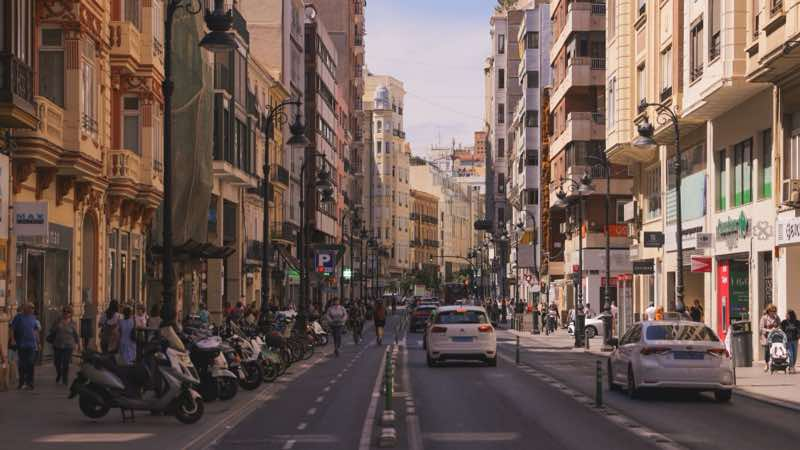
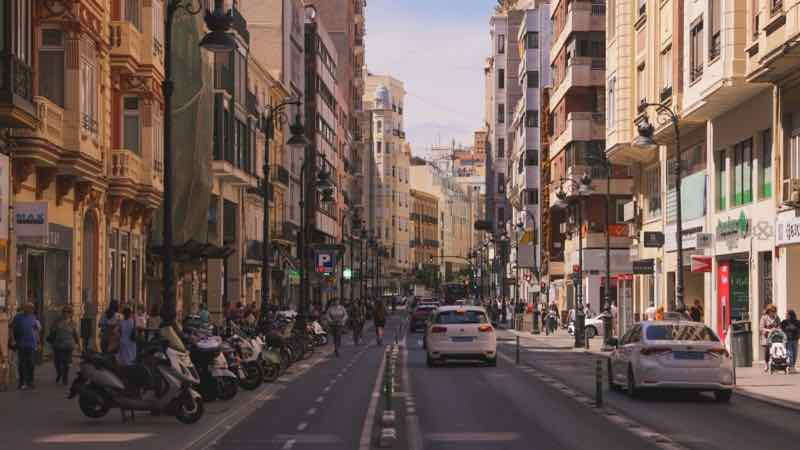
Six more drawings

diff --git a/nl/over-ons/index.html b/nl/over-ons/index.html
@@ -8,7 +8,7 @@
 <meta name="robots" content="noindex, nofollow">
 
 <link rel="preload" href="/assets/fonts/montserrat-latin-wght-normal.woff2" as="font" type="font/woff2" crossorigin>
-<link rel="stylesheet" href="/assets/styles.css?v=19522ea4">
+<link rel="stylesheet" href="/assets/styles.css?v=6e85b61c">
 <link rel="preload" as="image" href="/assets/img/small/pexels-n-voitkevich-7826593.jpg" imagesrcset="/assets/img/small/pexels-n-voitkevich-7826593.jpg 800w, /assets/img/pexels-n-voitkevich-7826593.jpg 2400w" imagesizes="100vw" fetchpriority="high">
 <link rel="icon" href="/assets/img/favicon.png" type="image/png">
 <script>
@@ -44,6 +44,18 @@
 <section class="section"><div class="wrap">
   <h2>Hoe wij werken</h2>
   
+  <figure class="drawing money-path"><svg viewBox="0 0 320 170" role="img" aria-label="Een pijl van u naar de verkoper, met de woorden uw geld. Kaireon staat erboven, zonder verbinding met de pijl.">
+      <rect class="box ours" x="120" y="8" width="80" height="36" rx="6"/>
+      <text x="160" y="31" text-anchor="middle" class="strong">Kaireon</text>
+      <line class="to" x1="160" y1="44" x2="160" y2="96"/><line class="cross" x1="150" y1="62" x2="170" y2="78"/><line class="cross" x1="170" y1="62" x2="150" y2="78"/>
+      <rect class="box" x="6" y="104" width="80" height="40" rx="6"/>
+      <text x="46" y="129" text-anchor="middle">u</text>
+      <rect class="box" x="214" y="104" width="100" height="40" rx="6"/>
+      <text x="264" y="129" text-anchor="middle">de verkoper</text>
+      <line class="arrow" x1="88" y1="124" x2="204" y2="124"/><polygon class="head" points="212,124 200,117 200,131"/>
+      
+      <text x="146" y="160" text-anchor="middle">uw geld</text>
+    </svg><figcaption>Uw geld gaat nooit via Kaireon. Wij ontvangen of beheren nooit geld voor de aankoop.</figcaption></figure>
 <div class="rows">
   <div><h3>U beslist</h3><p>U beslist zelf over elke stap. Wij adviseren, en doen niets namens u zonder uw schriftelijke opdracht.</p></div>
   <div><h3>Uw geld</h3><p>Wij ontvangen of beheren nooit geld voor de aankoop. Betaal nooit op basis van alleen een bericht per WhatsApp of e-mail.</p></div>
@@ -54,6 +66,25 @@
 <section class="section"><div class="wrap">
   <h2>Waar wij werken</h2>
   <p class="lede">Weet u nog niet welke streek bij u past? Daarvoor is de verkenningsreis bedoeld.</p>
+  <figure class="drawing map"><svg viewBox="0 0 350 560" role="img" aria-label="Een kaart van de kust. Bovenaan Valencia, met ons kantoor. Daaronder de Costa Blanca Noord met Dénia, Jávea, Moraira, Calpe en Altea, en de Costa Blanca Zuid met Alicante, Santa Pola, Guardamar del Segura, Torrevieja en Orihuela Costa.">
+      <polygon class="sea" points="198,-1 198,44 218,134 234,194 286,233 302,248 294,278 276,293 256,305 240,323 220,332 186,356 170,380 154,428 136,458 130,491 118,506 108,527 350,560 350,0"/>
+      <polyline class="coast" points="198,-1 198,44 218,134 234,194 286,233 302,248 294,278 276,293 256,305 240,323 220,332 186,356 170,380 154,428 136,458 130,491 118,506 108,527"/>
+      <circle class="town" cx="188" cy="44" r="4"/><text x="179" y="49" text-anchor="end">Valencia</text>
+      <circle class="town" cx="284" cy="233" r="4"/><text x="275" y="238" text-anchor="end">Dénia</text>
+      <circle class="town" cx="298" cy="248" r="4"/><text x="307" y="253" text-anchor="start">Jávea</text>
+      <circle class="town" cx="290" cy="278" r="4"/><text x="281" y="283" text-anchor="end">Moraira</text>
+      <circle class="town" cx="272" cy="293" r="4"/><text x="263" y="298" text-anchor="end">Calpe</text>
+      <circle class="town" cx="254" cy="305" r="4"/><text x="263" y="320" text-anchor="start">Altea</text>
+      <circle class="town" cx="168" cy="380" r="4"/><text x="159" y="385" text-anchor="end">Alicante</text>
+      <circle class="town" cx="152" cy="428" r="4"/><text x="143" y="433" text-anchor="end">Santa Pola</text>
+      <circle class="town" cx="134" cy="458" r="4"/><text x="143" y="463" text-anchor="start">Guardamar del Segura</text>
+      <circle class="town" cx="128" cy="491" r="4"/><text x="137" y="496" text-anchor="start">Torrevieja</text>
+      <circle class="town" cx="116" cy="506" r="4"/><text x="107" y="511" text-anchor="end">Orihuela Costa</text>
+      <circle class="office" cx="188" cy="44" r="8"/><text x="179" y="68" text-anchor="end" class="soft">kantoor</text>
+      <text x="336" y="130" text-anchor="middle" class="region" transform="rotate(90 336 130)">Costa Blanca Noord</text>
+      <text x="240" y="530" text-anchor="middle" class="region">Costa Blanca Zuid</text>
+      <text x="268" y="40" text-anchor="middle" class="soft">Middellandse Zee</text>
+    </svg><figcaption>Van Valencia tot Orihuela Costa. Ons kantoor staat in Valencia.</figcaption></figure>
 <div class="cols">
   <div><h3>Valencia</h3><p>De stad Valencia en haar wijken. Hier staat ons kantoor.</p></div>
   <div><h3>Costa Blanca Noord</h3><p>Onder meer Dénia, Jávea, Moraira, Calpe en Altea.</p></div>

diff --git a/nl/kopen/index.html b/nl/kopen/index.html
@@ -8,7 +8,7 @@
 <meta name="robots" content="noindex, nofollow">
 
 <link rel="preload" href="/assets/fonts/montserrat-latin-wght-normal.woff2" as="font" type="font/woff2" crossorigin>
-<link rel="stylesheet" href="/assets/styles.css?v=19522ea4">
+<link rel="stylesheet" href="/assets/styles.css?v=6e85b61c">
 <link rel="preload" as="image" href="/assets/img/small/pexels-tbd-traveller-2149583744-30811310.jpg" imagesrcset="/assets/img/small/pexels-tbd-traveller-2149583744-30811310.jpg 800w, /assets/img/pexels-tbd-traveller-2149583744-30811310.jpg 2000w" imagesizes="100vw" fetchpriority="high">
 <link rel="icon" href="/assets/img/favicon.png" type="image/png">
 <script>
@@ -67,6 +67,14 @@
 <section class="section"><div class="wrap">
   <h2>Wat wij controleren</h2>
   <p class="lede">Vóór u tekent, worden de woning en de contracten juridisch gecontroleerd. Een onafhankelijke Spaanse advocaat doet die controle. U mag ook uw eigen advocaat kiezen.</p>
+  <figure class="drawing gate"><svg viewBox="0 0 320 230" role="img" aria-label="Drie stappen onder elkaar: bod en reservering, dan de juridische controle, en pas daarna tekent u het arrascontract.">
+      <rect class="box" x="40" y="10" width="240" height="44" rx="6"/>
+      <text x="160" y="37" text-anchor="middle">bod en reservering</text><line class="arrow" x1="160" y1="54" x2="160" y2="80"/><polygon class="head" points="160,88 153,76 167,76"/>
+      <rect class="box ours" x="40" y="90" width="240" height="44" rx="6"/>
+      <text x="160" y="117" text-anchor="middle" class="strong">juridische controle</text><line class="arrow" x1="160" y1="134" x2="160" y2="160"/><polygon class="head" points="160,168 153,156 167,156"/>
+      <rect class="box" x="40" y="170" width="240" height="44" rx="6"/>
+      <text x="160" y="197" text-anchor="middle">u tekent de arras</text>
+    </svg><figcaption>Pas na de juridische controle van de woning en de contracten tekent u het arrascontract.</figcaption></figure>
 <div class="rows">
   <div><h3>Eigendom</h3><p>Staat de woning in het Registro de la Propiedad op naam van de verkoper? Klopt de omschrijving in het register en het kadaster met wat u koopt?</p></div>
   <div><h3>Schulden en lasten</h3><p>Rust er een hypotheek, een beslag of een andere last op de woning? Zijn de gemeentebelasting en de bijdrage aan de vereniging van eigenaren betaald? Open schulden kunnen bij de woning blijven.</p></div>
@@ -101,6 +109,23 @@
 <section class="section"><div class="wrap">
   <h2>Kosten bovenop de koopprijs</h2>
   <p class="lede">In de eerste fase krijgt u een volledige kostenraming. De bedragen hangen af van de woning en van de tarieven van dat moment. Dit overzicht is geen fiscaal advies.</p>
+  <figure class="drawing costs"><svg viewBox="0 0 320 262" role="img" aria-label="Twee stapels. Een bestaande woning: de koopprijs, daarop overdrachtsbelasting (ITP) en vaste kosten. Nieuwbouw: de koopprijs, daarop btw en zegelrecht (IVA en AJD) en vaste kosten.">
+      <rect class="box" x="25" y="20" width="120" height="120"/>
+      <text x="85" y="85" text-anchor="middle">koopprijs</text>
+      <rect class="bank" x="25" y="140" width="120" height="44"/>
+      <text x="85" y="167" text-anchor="middle" class="strong">ITP</text>
+      <rect class="own" x="25" y="184" width="120" height="40"/>
+      <text x="85" y="209" text-anchor="middle">vaste kosten</text>
+      <rect class="box" x="175" y="20" width="120" height="120"/>
+      <text x="235" y="85" text-anchor="middle">koopprijs</text>
+      <rect class="bank" x="175" y="140" width="120" height="44"/>
+      <text x="235" y="167" text-anchor="middle" class="strong">IVA en AJD</text>
+      <rect class="own" x="175" y="184" width="120" height="40"/>
+      <text x="235" y="209" text-anchor="middle">vaste kosten</text>
+      
+      <text x="85" y="252" text-anchor="middle" class="strong">bestaande woning</text>
+      <text x="235" y="252" text-anchor="middle" class="strong">nieuwbouw</text>
+    </svg><figcaption>Bovenop de koopprijs komen belastingen en vaste kosten (notaris, register, gestor). Schematisch, niet op schaal.</figcaption></figure>
 <div class="rows">
   <div><h3>Bestaande woning</h3><p>U betaalt overdrachtsbelasting (ITP).</p></div>
   <div><h3>Nieuwbouw</h3><p>U betaalt btw (IVA) en zegelrecht (AJD) in plaats van overdrachtsbelasting.</p></div>

diff --git a/nl/ontwikkelen/index.html b/nl/ontwikkelen/index.html
@@ -8,7 +8,7 @@
 <meta name="robots" content="noindex, nofollow">
 
 <link rel="preload" href="/assets/fonts/montserrat-latin-wght-normal.woff2" as="font" type="font/woff2" crossorigin>
-<link rel="stylesheet" href="/assets/styles.css?v=19522ea4">
+<link rel="stylesheet" href="/assets/styles.css?v=6e85b61c">
 <link rel="preload" as="image" href="/assets/img/small/pexels-delot-38306059.jpg" imagesrcset="/assets/img/small/pexels-delot-38306059.jpg 800w, /assets/img/pexels-delot-38306059.jpg 2400w" imagesizes="100vw" fetchpriority="high">
 <link rel="icon" href="/assets/img/favicon.png" type="image/png">
 <script>
@@ -50,6 +50,17 @@
 <section class="section"><div class="wrap">
   <h2>Wat is een cambio de uso?</h2>
   
+  <figure class="drawing change"><svg viewBox="0 0 360 200" role="img" aria-label="Links een bedrijfsruimte met een rolluik. Een pijl met het woord vergunning. Rechts dezelfde gevel als woning, met ramen en een deur.">
+      <rect class="box" x="10" y="20" width="110" height="130"/><rect class="off" x="20" y="60" width="90" height="90"/>
+      <line class="link" x1="20" y1="72" x2="110" y2="72"/><line class="link" x1="20" y1="84" x2="110" y2="84"/><line class="link" x1="20" y1="96" x2="110" y2="96"/><line class="link" x1="20" y1="108" x2="110" y2="108"/><line class="link" x1="20" y1="120" x2="110" y2="120"/><line class="link" x1="20" y1="132" x2="110" y2="132"/>
+      <line class="arrow" x1="136" y1="95" x2="216" y2="95"/><polygon class="head" points="226,95 214,88 214,102"/>
+      <text x="180" y="80" text-anchor="middle">vergunning</text>
+      <rect class="box ours" x="240" y="20" width="110" height="130"/><rect class="unit" x="252" y="40" width="36" height="40"/><rect class="unit" x="302" y="40" width="36" height="40"/>
+      <rect class="unit" x="252" y="96" width="36" height="40"/><rect class="door" x="306" y="96" width="28" height="54"/>
+      
+      <text x="65" y="178" text-anchor="middle">bedrijfsruimte</text>
+      <text x="295" y="178" text-anchor="middle" class="strong">woning</text>
+    </svg><figcaption>Een cambio de uso maakt van een bedrijfsruimte een woning. De gemeente moet er een vergunning voor geven.</figcaption></figure>
 <div class="rows">
   <div><h3>Een andere bestemming</h3><p>Een cambio de uso wijzigt de bestemming van een pand. Een bedrijfsruimte op de begane grond wordt bijvoorbeeld een woning.</p></div>
   <div><h3>Wat daarvoor nodig is</h3><p>De gemeente moet een vergunning geven voor de wijziging. De ruimte moet voldoen aan de eisen voor een woning, zoals daglicht, ventilatie en hoogte. Een architect maakt het project.</p></div>

diff --git a/nl/beheer/index.html b/nl/beheer/index.html
@@ -8,7 +8,7 @@
 <meta name="robots" content="noindex, nofollow">
 
 <link rel="preload" href="/assets/fonts/montserrat-latin-wght-normal.woff2" as="font" type="font/woff2" crossorigin>
-<link rel="stylesheet" href="/assets/styles.css?v=19522ea4">
+<link rel="stylesheet" href="/assets/styles.css?v=6e85b61c">
 <link rel="preload" as="image" href="/assets/img/small/pexels-joaquin-carfagna-3131171-17628111.jpg" imagesrcset="/assets/img/small/pexels-joaquin-carfagna-3131171-17628111.jpg 800w, /assets/img/pexels-joaquin-carfagna-3131171-17628111.jpg 2400w" imagesizes="100vw" fetchpriority="high">
 <link rel="icon" href="/assets/img/favicon.png" type="image/png">
 <script>
@@ -51,6 +51,17 @@
 <section class="section"><div class="wrap">
   <h2>Wat beheer inhoudt</h2>
   <p class="lede">U woont niet om de hoek. Wij doen ter plaatse wat nodig is.</p>
+  <figure class="drawing cycle"><svg viewBox="0 0 320 300" role="img" aria-label="Een kring van vijf stappen rond uw appartement: boeking, eigen code voor de gast, verblijf, vertrek en schoonmaak, en dan de volgende boeking.">
+      <circle class="ring" cx="160" cy="150" r="112"/>
+      <rect class="box ours" x="70" y="132" width="180" height="36" rx="18"/>
+      <text x="160" y="155" text-anchor="middle" class="strong">uw appartement</text>
+      <rect class="box" x="108" y="21" width="104" height="34" rx="17"/>
+      <text x="160" y="43" text-anchor="middle">boeking</text><rect class="box" x="215" y="98" width="104" height="34" rx="17"/>
+      <text x="267" y="120" text-anchor="middle">eigen code</text><rect class="box" x="174" y="224" width="104" height="34" rx="17"/>
+      <text x="226" y="246" text-anchor="middle">verblijf</text><rect class="box" x="42" y="224" width="104" height="34" rx="17"/>
+      <text x="94" y="246" text-anchor="middle">vertrek</text><rect class="box" x="1" y="98" width="104" height="34" rx="17"/>
+      <text x="53" y="120" text-anchor="middle">schoonmaak</text>
+    </svg><figcaption>Bij elke boeking: de gast krijgt een eigen code, wij beantwoorden de vragen, en na het vertrek volgt de schoonmaak.</figcaption></figure>
 <div class="rows">
   <div><h3>Sleutels en toegang</h3><p>Een slot met een code vervangt de sleutel. Elke gast krijgt een eigen code, die alleen tijdens het verblijf werkt. De schoonmaak en het onderhoud hebben een eigen code.</p></div>
   <div><h3>Advertentie, kalender en prijs</h3><p>Wij maken de advertentie, met foto's en een beschrijving van elke ruimte. De kalender en de prijzen beheren wij op één plek, voor alle kanalen samen.</p></div>

diff --git a/assets/styles.css b/assets/styles.css
@@ -202,6 +202,17 @@ main { padding-bottom: var(--space-64); }
 .drawing .unit { fill: var(--accent); fill-opacity: .35; stroke: var(--accent); stroke-width: 2; }
 .drawing .street { stroke: var(--text); stroke-width: 2; }
 .drawing .off { fill: var(--text); fill-opacity: .1; stroke: var(--line); stroke-width: 2; stroke-dasharray: 4 4; }
+.drawing .arrow { stroke: var(--accent); stroke-width: 3; }
+.drawing .head, .drawing .door { fill: var(--accent); }
+.drawing .cross { stroke: var(--text); stroke-width: 3; }
+.drawing .ring { fill: none; stroke: var(--accent); stroke-width: 2; stroke-dasharray: 6 6; }
+.drawing .sea { fill: var(--accent); fill-opacity: .15; }
+.drawing .coast { fill: none; stroke: var(--accent); stroke-width: 2; }
+.drawing .town { fill: var(--text); }
+.drawing .office { fill: var(--accent); stroke: var(--text); stroke-width: 2; }
+.drawing text.soft { fill: var(--muted); }
+.drawing text.region { fill: var(--accent); font-weight: 600; }
+.drawing.map svg { max-width: 380px; }
 /* Large figures: a short fact in the accent colour, with one line under it. */
 .figures { display: grid; gap: var(--space-32); grid-template-columns: repeat(auto-fit, minmax(min(100%, 220px), 1fr)); }
 .figures b { display: block; font-size: var(--text-40); font-weight: 500; line-height: 1.1; color: var(--accent); margin-bottom: var(--space-8); }

diff --git a/nl/index.html b/nl/index.html
@@ -8,7 +8,7 @@
 <meta name="robots" content="noindex, nofollow">
 
 <link rel="preload" href="/assets/fonts/montserrat-latin-wght-normal.woff2" as="font" type="font/woff2" crossorigin>
-<link rel="stylesheet" href="/assets/styles.css?v=19522ea4">
+<link rel="stylesheet" href="/assets/styles.css?v=6e85b61c">
 <link rel="preload" as="image" href="/assets/img/small/pexels-audrius-strikaitis-31613974-18771948.jpg" imagesrcset="/assets/img/small/pexels-audrius-strikaitis-31613974-18771948.jpg 800w, /assets/img/pexels-audrius-strikaitis-31613974-18771948.jpg 2000w" imagesizes="100vw" fetchpriority="high">
 <link rel="icon" href="/assets/img/favicon.png" type="image/png">
 <script>

diff --git a/nl/contact/index.html b/nl/contact/index.html
@@ -8,7 +8,7 @@
 <meta name="robots" content="noindex, nofollow">
 
 <link rel="preload" href="/assets/fonts/montserrat-latin-wght-normal.woff2" as="font" type="font/woff2" crossorigin>
-<link rel="stylesheet" href="/assets/styles.css?v=19522ea4">
+<link rel="stylesheet" href="/assets/styles.css?v=6e85b61c">
 <link rel="preload" as="image" href="/assets/img/small/pexels-joaquin-carfagna-3131171-17627454.jpg" imagesrcset="/assets/img/small/pexels-joaquin-carfagna-3131171-17627454.jpg 800w, /assets/img/pexels-joaquin-carfagna-3131171-17627454.jpg 2400w" imagesizes="100vw" fetchpriority="high">
 <link rel="icon" href="/assets/img/favicon.png" type="image/png">
 <script>

diff --git a/nl/aviso-legal/index.html b/nl/aviso-legal/index.html
@@ -8,7 +8,7 @@
 <meta name="robots" content="noindex, nofollow">
 
 <link rel="preload" href="/assets/fonts/montserrat-latin-wght-normal.woff2" as="font" type="font/woff2" crossorigin>
-<link rel="stylesheet" href="/assets/styles.css?v=19522ea4">
+<link rel="stylesheet" href="/assets/styles.css?v=6e85b61c">
 <link rel="icon" href="/assets/img/favicon.png" type="image/png">
 <script>
   // Calm movement: each text block fades in once as it comes into view. Only when the visitor allows motion and the

diff --git a/nl/cookies/index.html b/nl/cookies/index.html
@@ -8,7 +8,7 @@
 <meta name="robots" content="noindex, nofollow">
 
 <link rel="preload" href="/assets/fonts/montserrat-latin-wght-normal.woff2" as="font" type="font/woff2" crossorigin>
-<link rel="stylesheet" href="/assets/styles.css?v=19522ea4">
+<link rel="stylesheet" href="/assets/styles.css?v=6e85b61c">
 <link rel="icon" href="/assets/img/favicon.png" type="image/png">
 <script>
   // Calm movement: each text block fades in once as it comes into view. Only when the visitor allows motion and the

diff --git a/nl/privacy/index.html b/nl/privacy/index.html
@@ -8,7 +8,7 @@
 <meta name="robots" content="noindex, nofollow">
 
 <link rel="preload" href="/assets/fonts/montserrat-latin-wght-normal.woff2" as="font" type="font/woff2" crossorigin>
-<link rel="stylesheet" href="/assets/styles.css?v=19522ea4">
+<link rel="stylesheet" href="/assets/styles.css?v=6e85b61c">
 <link rel="icon" href="/assets/img/favicon.png" type="image/png">
 <script>
   // Calm movement: each text block fades in once as it comes into view. Only when the visitor allows motion and the
